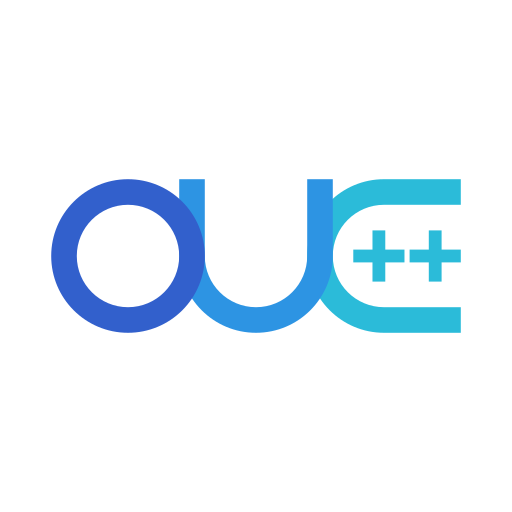
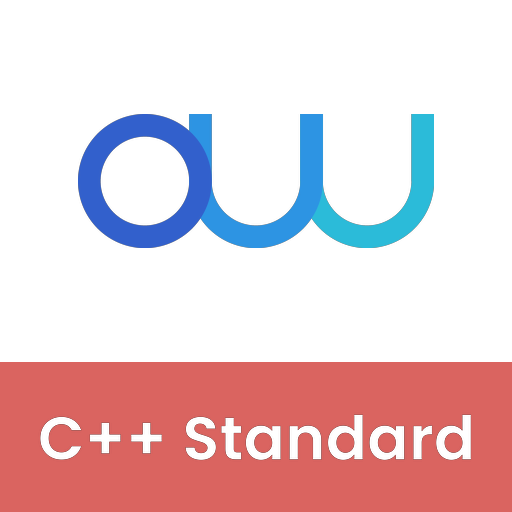
Adopt the shared Open Unreal Utilities identity
The family now shares one OUU monogram and is told apart by an accent
colour rather than a per-plugin third glyph, so the OUC++ mark and its
"++" sigil are retired. Artwork is generated by Build/Scripts/Branding
in the sample project.

- Icon128/Icon512 gain the accent band carrying the plugin name
- ouu_wide / ouu512_wide replace the oucpp*.png files
- FriendlyName becomes "Open Unreal Utilities - C++ Coding Standard";
  Category groups the family in the plugin browser
- README: matching title, logo and a link back to the main plugin

diff --git a/README.md b/README.md
@@ -1,6 +1,8 @@
-# Open Unreal Coding Standard
+# Open Unreal Utilities - C++ Coding Standard
 
-![Open Unreal Coding Standard logo](./Resources/oucpp_wide.png)
+![Open Unreal Utilities - C++ Coding Standard logo](./Resources/ouu_wide.png)
+
+> Part of [Open Unreal Utilities](https://github.com/JonasReich/OpenUnrealUtilities), a family of Unreal Engine plugins and tools.
 
 ## Intent
 The coding standard reflects my personal views and what I try to enforce for personal and commercial projects I work on.
